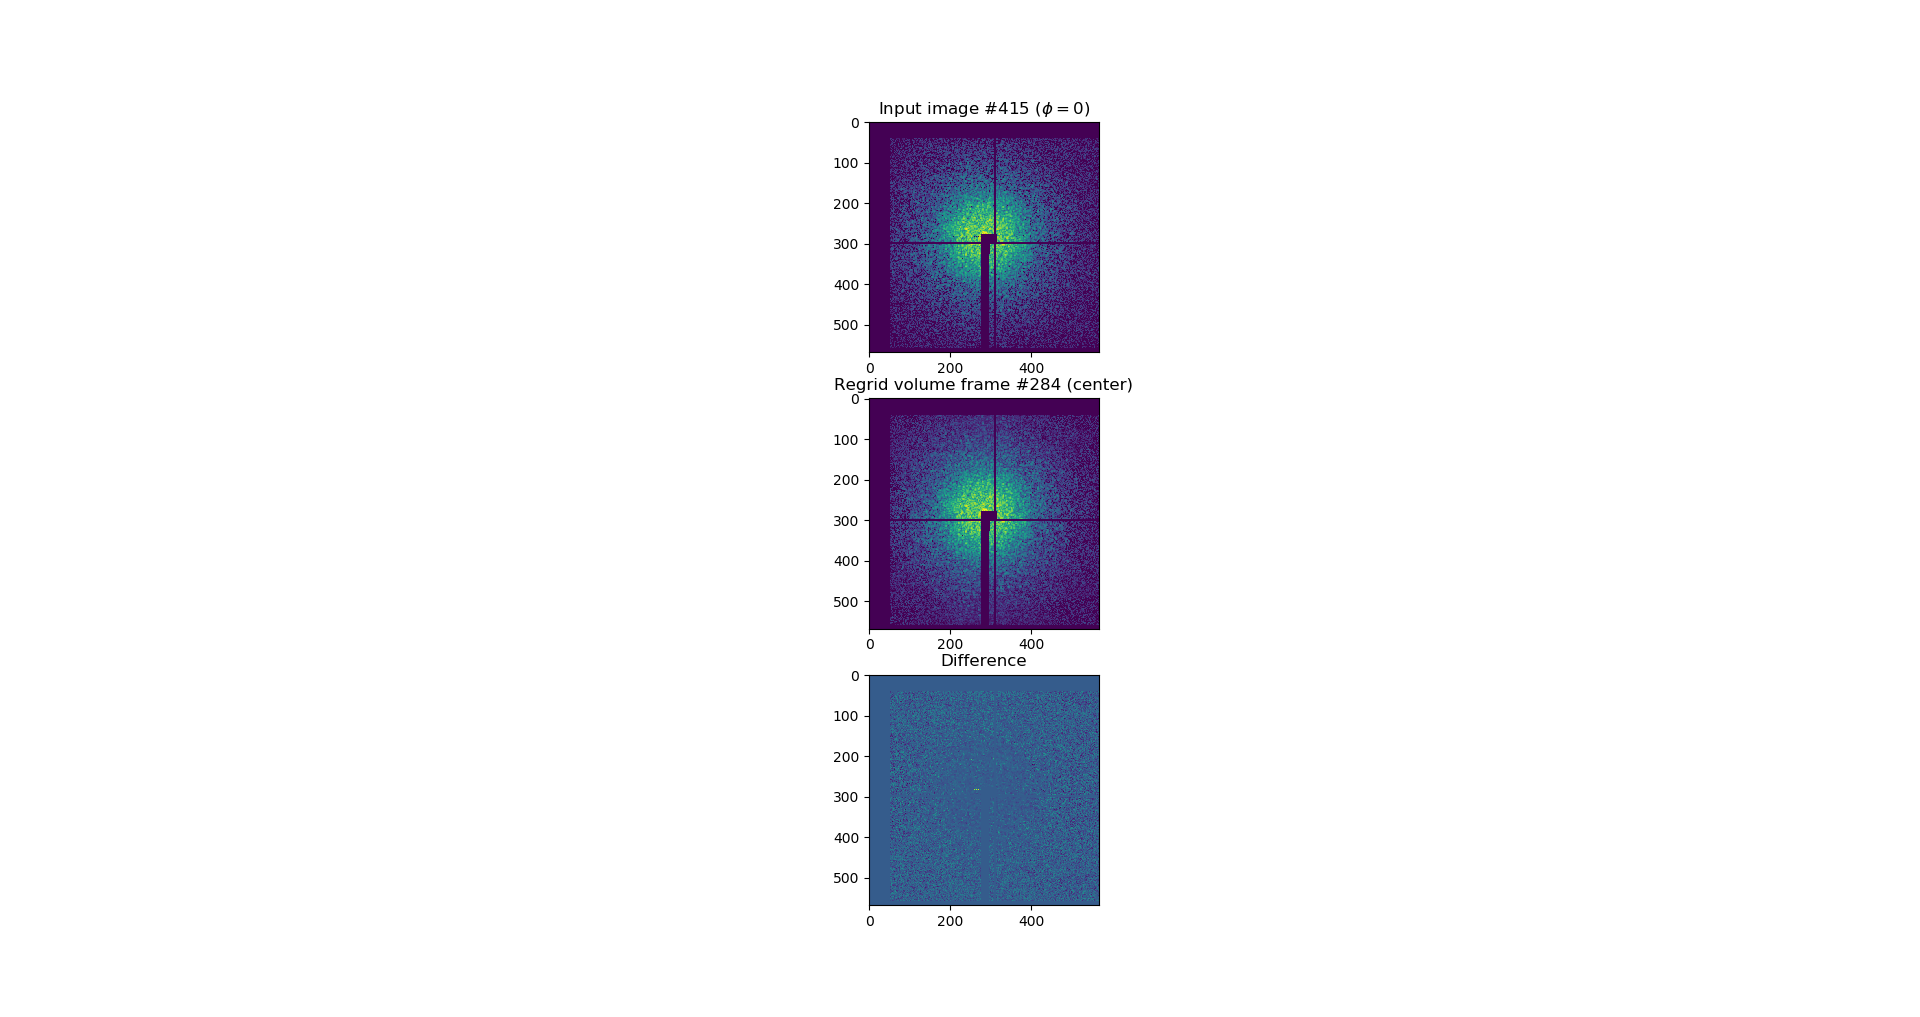
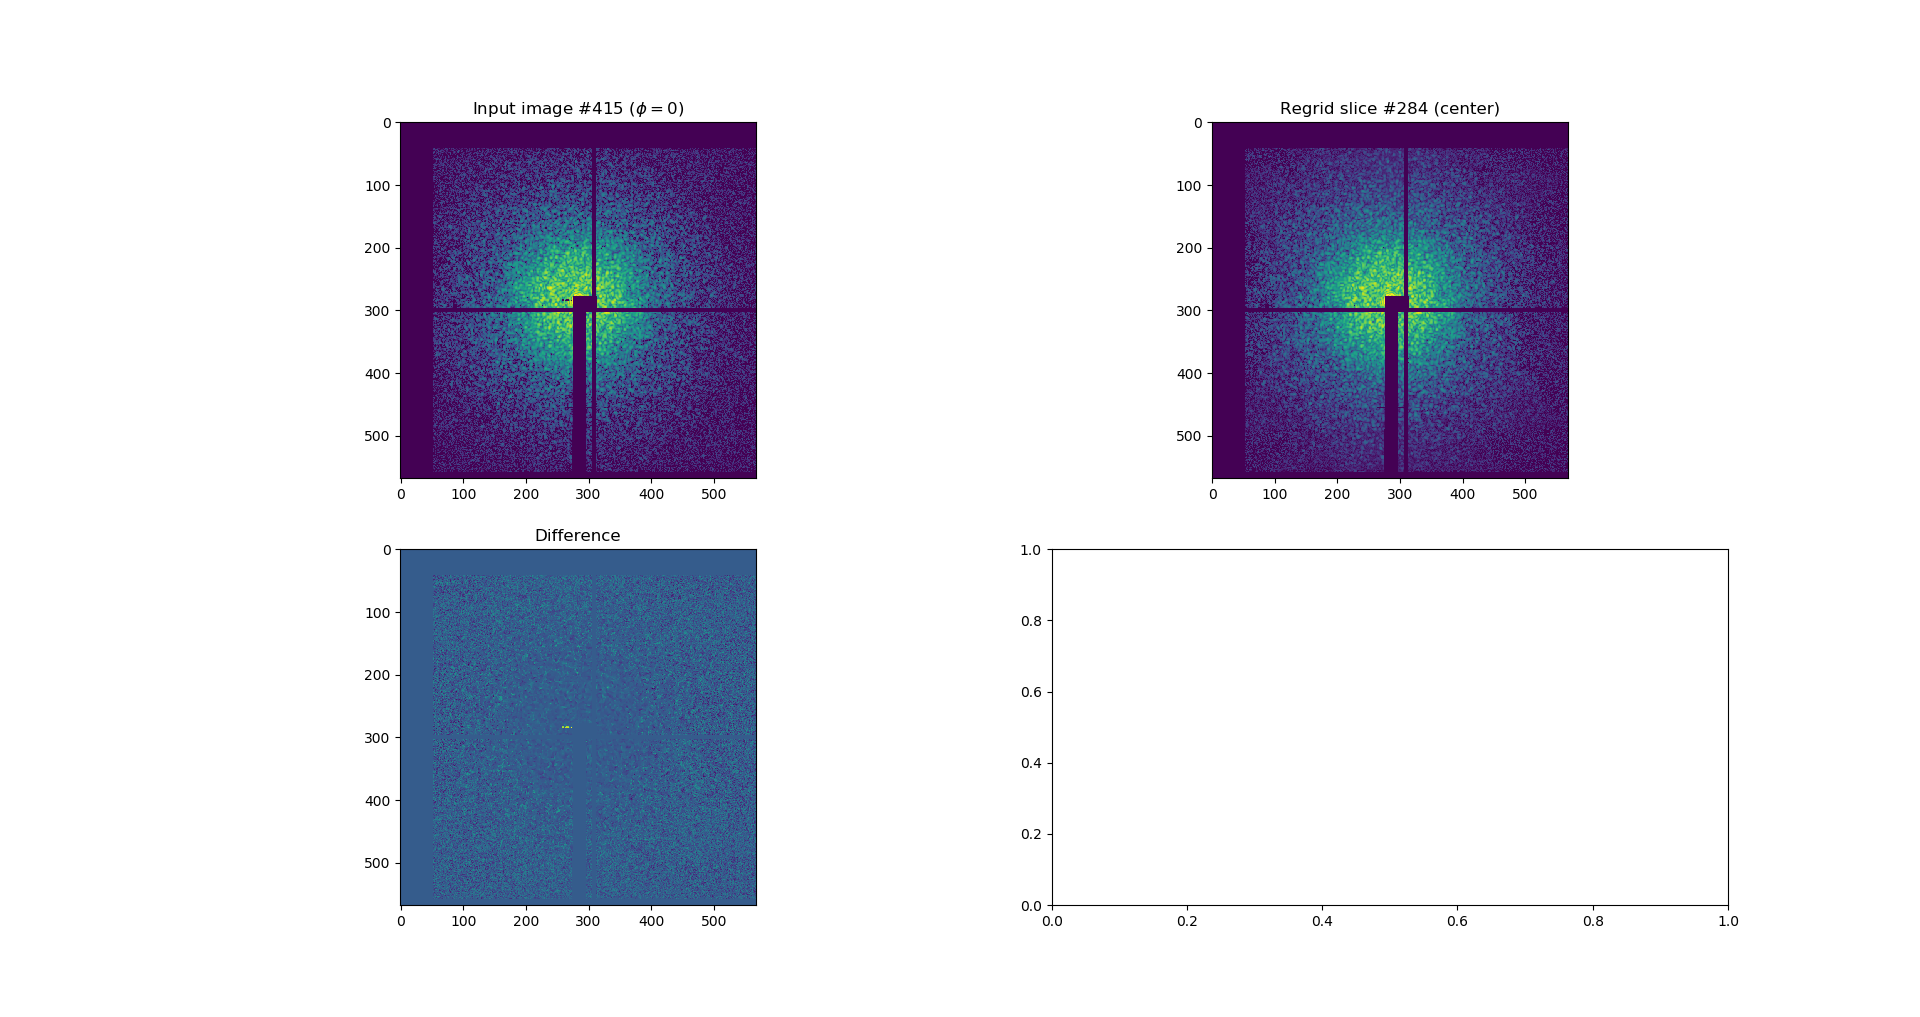
typo

diff --git a/shift.py b/shift.py
@@ -19,7 +19,7 @@ fig, ax = subplots(2, 2)
 ax[0, 0].imshow(mdata)
 ax[0, 0].set_title(r"Input image #415 ($\phi=0$)")
 ax[0, 1].imshow(hdata)
-ax[0, 1].set_title("Regrid volume frame #284 (center)")
+ax[0, 1].set_title("Regrid slice #284 (center)")
 ax[1, 0].imshow(hdata - mdata)
 ax[1, 0].set_title("Difference")
 
